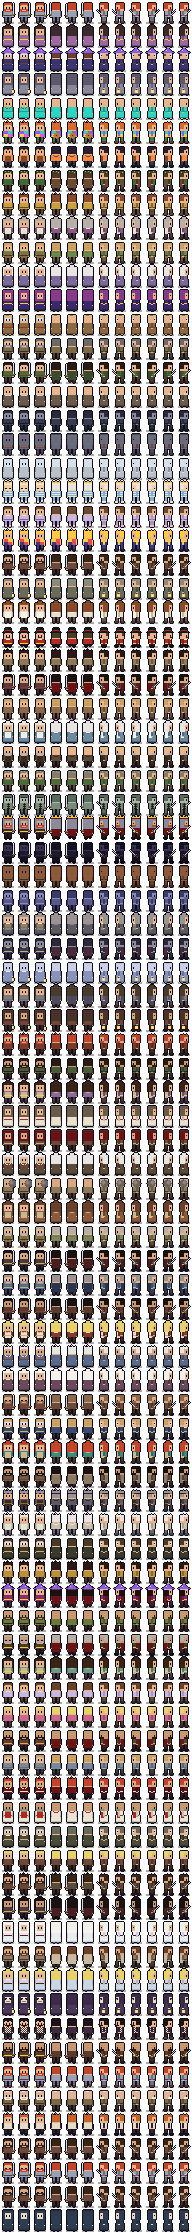
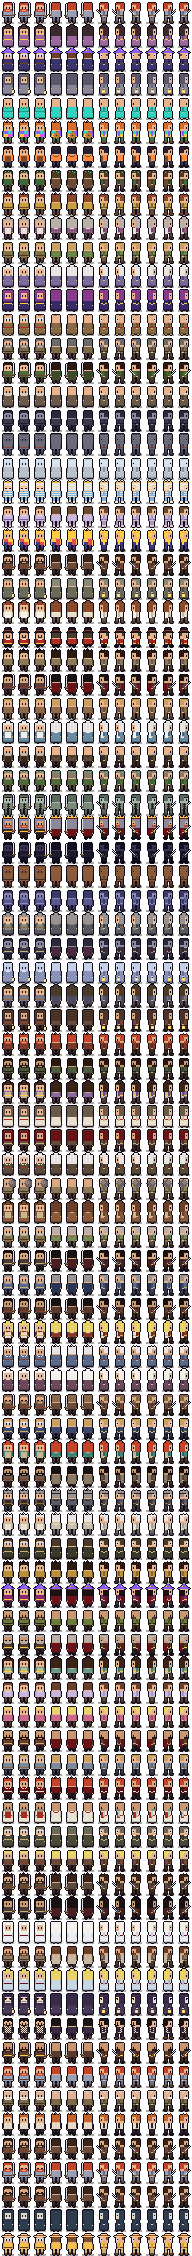
Story: the Traveler (directions if you're nice), Warrior City signposts
Claude-Session: https://claude.ai/code/session_01M3Peeuj4v63JAjidnU8Moq

diff --git a/src/world/traveler.ts b/src/world/traveler.ts
@@ -1,0 +1,91 @@
+import type { Dialogue } from '@/components/world/dialogue-box';
+
+import type { NpcObject } from './maps';
+
+// The Traveler (author, Oct 7, 2026): a running gag. He turns up in every place you go from Warrior City on,
+// always cheerful, always a tourist, and he'll give you directions, but only if you're nice to him when he
+// says hello. He stays where he is until Kaldor is beaten. Each of him on a map is an NPC whose id starts
+// `traveler-`; what he says about the way on depends on where he's standing.
+
+export const TRAVELER_PREFIX = 'traveler-';
+/** You said hello nicely once: he skips straight to the directions after that, wherever you meet him. */
+export const TRAVELER_FRIEND = 'traveler-friend';
+
+export const isTraveler = (npc: NpcObject) => npc.id.startsWith(TRAVELER_PREFIX);
+
+/** "Where should I go?", for wherever he's standing. */
+export const TRAVELER_DIRECTIONS: Record<string, string[]> = {
+  'warrior-city': [
+    "Ooh, where to start! West, back through Felix's boulders, is the Courier Road: the Waystation, and Millbrook past it.",
+    "South, the South Road: the Royal Garden, and the Old Mine. Somebody's waiting down there, I hear.",
+    "North, the road to the deserters' camp and the old fort in the hill. The gate won't open till you're overall Lv 10.",
+    "Past the fort, the king's checkpoints, and past those, the Berserker Kingdom. That's where it all happens.",
+    "East is the bridge to the Mage Kingdom. They're still building it. Don't hold your breath. I did. Very bad idea.",
+  ],
+  'deserters-camp': [
+    "Into the fort in the hill! It's the old Buried Barracks. Ghosts, but polite ones. Mostly.",
+    "Out the far side is the March Road, and the king's checkpoint. Pay them, or tell them a good story.",
+    "Then the Berserker Kingdom itself. And back west, Warrior City, if you're homesick.",
+  ],
+  'kingdom-town': [
+    'This is the Berserker Kingdom! North, up the castle road, is Kaldor himself, on the throne.',
+    "To get in there you'll want the whole town on your side, the whole party with you, and overall Lv 18. Ask Gert, by the lamps.",
+    "East gate: Kaldorhold, the king's bazaar city. South gate: the Tithe Road, to the Broken Watch and the Field of Banners.",
+    'And here in town: the Candle Inn, the forge, the chapel and the hedge maze. The gate out west goes back to the March Road.',
+  ],
+};
+
+const NAME = 'The Traveler';
+
+/** His questions, once you've been nice to him. */
+function directions(map: string, again: boolean): Dialogue {
+  return {
+    speaker: NAME,
+    sprite: 'traveler',
+    lines: [
+      again ? 'My friend! Back again. Looking for directions?' : 'Manners! How lovely. Are you looking for directions?',
+    ],
+    questions: [
+      { ask: 'Where am I?', answer: ['Virth.'] },
+      { ask: 'Who are you?', answer: ["I'm a traveler. A tourist. An enthusiast for life."] },
+      { ask: 'Where should I go?', answer: TRAVELER_DIRECTIONS[map] ?? ["Anywhere you like! That's the fun of it."] },
+    ],
+    farewell: ["I'll see you around!"],
+  };
+}
+
+/**
+ * Talking to him: a hello first, nice or not. Be nice and he offers directions (and remembers it, `befriend`);
+ * be rude and you'll find your own way. `say` opens the next window.
+ */
+export function travelerTalk(map: string, flags: string[], befriend: () => void, say: (d: Dialogue) => void): Dialogue {
+  if (flags.includes(TRAVELER_FRIEND)) return directions(map, true);
+  return {
+    speaker: NAME,
+    sprite: 'traveler',
+    lines: ['Oh! Hello, hello! Lovely day for it. Whatever "it" is.'],
+    choices: [
+      {
+        label: 'Hello! Lovely to meet you.',
+        deed: 'good',
+        then: () => {
+          befriend();
+          say(directions(map, false));
+        },
+      },
+      {
+        label: "Move. You're in my way.",
+        deed: 'bad',
+        then: () =>
+          say({
+            speaker: NAME,
+            sprite: 'traveler',
+            lines: [
+              'Well! Somebody woke up on the wrong side of the cocoon.',
+              "Off you go, then. You'll find your own way. Probably.",
+            ],
+          }),
+      },
+    ],
+  };
+}

diff --git a/src/world/__tests__/traveler.test.ts b/src/world/__tests__/traveler.test.ts
@@ -1,0 +1,30 @@
+import { MAPS } from '../maps';
+import { TRAVELER_DIRECTIONS, TRAVELER_FRIEND, isTraveler, travelerTalk } from '../traveler';
+
+describe('the Traveler', () => {
+  const placed = Object.values(MAPS).flatMap((m) => m.npcs.filter(isTraveler).map((n) => ({ map: m.id, n })));
+
+  it('stands in Warrior City and every place after, with directions for each, until Kaldor is beaten', () => {
+    expect(placed.map((p) => p.map).sort()).toEqual(['deserters-camp', 'kingdom-town', 'warrior-city']);
+    for (const { map, n } of placed) {
+      expect(TRAVELER_DIRECTIONS[map]?.length).toBeGreaterThan(0);
+      expect(n.goneAfter).toBe('kaldor-beaten');
+    }
+  });
+
+  it('gives directions only if you are nice to him, and remembers it', () => {
+    let next: ReturnType<typeof travelerTalk> | null = null;
+    let friend = false;
+    const hello = travelerTalk('warrior-city', [], () => (friend = true), (d) => (next = d));
+    expect(hello.questions).toBeUndefined();
+    hello.choices!.find((c) => c.deed === 'bad')!.then();
+    expect(friend).toBe(false);
+    expect(next!.questions).toBeUndefined();
+    hello.choices!.find((c) => c.deed === 'good')!.then();
+    expect(friend).toBe(true);
+    expect(next!.questions!.map((q) => q.ask)).toEqual(['Where am I?', 'Who are you?', 'Where should I go?']);
+    expect(next!.questions![0].answer).toEqual(['Virth.']);
+    expect(next!.farewell).toEqual(["I'll see you around!"]);
+    expect(travelerTalk('warrior-city', [TRAVELER_FRIEND], () => {}, () => {}).questions).toHaveLength(3);
+  });
+});

diff --git a/src/app/(tabs)/world.tsx b/src/app/(tabs)/world.tsx
@@ -28,6 +28,7 @@ import { useCollection, useObjectives, useToday } from '@/store/hooks';
 import { CLASSES, levelFromXp, overallLevelFromXp, toDateKey, type Dimension } from '@/game';
 import { fonts } from '@/theme';
 import { advisedBy, brokenCocoons, cocoonAt, COCOON_WALL } from '@/world/cocoons';
+import { isTraveler, TRAVELER_FRIEND, travelerTalk } from '@/world/traveler';
 import { DOWN, LEFT, RIGHT, UP, tileAhead } from '@/world/engine';
 import { turnToTalk, whoIsAt } from '@/world/wander';
 import { NOT_YET, meetingLines, metFlag, recruitNeeds, whereToMeet } from '@/world/meet';
@@ -1036,6 +1037,12 @@ function World({
   }, [setFlag, travel, hereNow, bridgeDown, sayAs, hero]);
   useEffect(() => {
     specialTalk.current = (thing) => {
+      // the Traveler: hello first, and directions only if you're nice about it (traveler.ts)
+      if (isTraveler(thing)) {
+        const { flags } = useWorldStore.getState();
+        setDialogue(travelerTalk(map.id, flags, () => setFlag(TRAVELER_FRIEND), setDialogue));
+        return true;
+      }
       if (
         map.id === 'castle-grounds' &&
         thing.id === GATE_GUARD &&
@@ -1046,7 +1053,7 @@ function World({
       }
       return false;
     };
-  }, [map, gateScene]);
+  }, [map, gateScene, setFlag]);
   const onWin = useCallback(() => {
     if (!map.boss) return;
     // The prison route (dungeon.ts): Brannoc is out cold on the sand while you fight.

diff --git a/src/world/walkers.ts b/src/world/walkers.ts
@@ -101,6 +101,7 @@ export const WALKER_ROWS = {
   brannocasleep: 90,
   garyasleep: 91,
   silasseen: 92,
+  traveler: 93,
 } as const;
 
 export type WalkerId = keyof typeof WALKER_ROWS;
